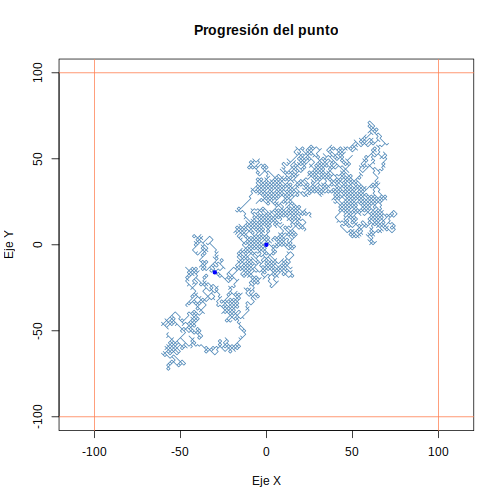
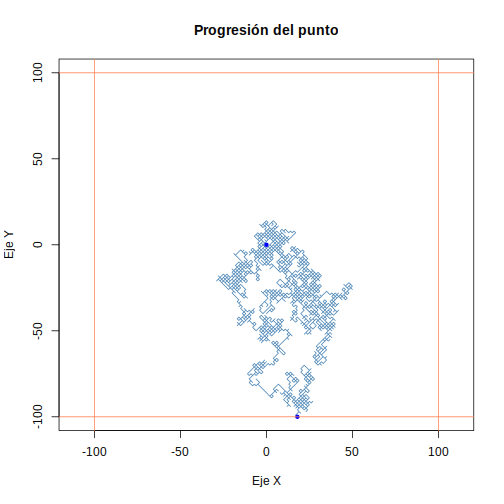
Añade media de tiempo, que es lo que se pedía en el ejercicio 4.

Changed region(s): [[0.3274, 0.2381, 0.8036, 0.8333]]

diff --git a/PlantillaHTML_Alejandro/index.html b/PlantillaHTML_Alejandro/index.html
@@ -216,14 +216,14 @@
                         
 <div class="chunk" id="unnamed-chunk-2"><div class="rcode"><div class="source"><pre class="knitr r"><span class="hl std">res</span> <span class="hl kwb">&lt;-</span> <span class="hl kwd">movimiento</span><span class="hl std">(</span><span class="hl num">10000</span><span class="hl std">,</span> <span class="hl kwc">mostrar</span> <span class="hl std">= T)</span>
 </pre></div>
-<div class="output"><pre class="knitr r">## No he terminado de moverme.
+<div class="output"><pre class="knitr r">## He llegado al límite.
 </pre></div>
 </div></div>
 
 
 
 
-                        <p>Además de con el mensaje impreso, podemos comprobar si hemos llegado o no al borde con el resultado devuelto: como <code>res$Exito = </code><code class="knitr inline">FALSE</code>, podemos confirmar que no se ha llegado al borde del cuadrado.</p>
+                        <p>Además de con el mensaje impreso, podemos comprobar si hemos llegado o no al borde con el resultado devuelto: como <code>res$Exito = </code><code class="knitr inline">TRUE</code>, podemos confirmar que sí se ha llegado al borde del cuadrado.</p>
                         <p>Para hacer un gráfico del proceso, simplemente tenemos que recuperar el camino con el elemento <code>Progresion</code> de la lista devuelta por el método y dibujar los puntos de ese vector. Podemos añadir, para la mejor visualización del gráfico, unas líneas que representen el borde del recinto y un par de puntos que representen el punto inicial y el punto final.
                       
 
@@ -255,7 +255,7 @@
                     <div class="solucion">
                         <p>Definimos la función solicitada, en la que usamos <code>replicate</code>, una función de <code>R</code> que permite repetir un proceso tantas veces como se le indique. Como lo que queremos es el número de pasos, lo que haremos será repetir <code>n</code> veces la llamada a <code>movimiento</code>, tomando el resultado que nos interesa: el elemento <code>Pasos</code> de la lista devuelta:</p>
 
-<div class="chunk" id="unnamed-chunk-5"><div class="rcode"><div class="source"><pre class="knitr r"><span class="hl std">repeticion</span> <span class="hl kwb">&lt;-</span> <span class="hl kwa">function</span><span class="hl std">(</span><span class="hl kwc">n</span> <span class="hl std">=</span> <span class="hl num">1000</span><span class="hl std">,</span> <span class="hl kwc">maxPasos</span> <span class="hl std">=</span> <span class="hl num">10000</span><span class="hl std">){</span>
+<div class="chunk" id="unnamed-chunk-5"><div class="rcode"><div class="source"><pre class="knitr r"><span class="hl std">repeticion</span> <span class="hl kwb">&lt;-</span> <span class="hl kwa">function</span><span class="hl std">(</span><span class="hl kwc">n</span> <span class="hl std">=</span> <span class="hl num">1000</span><span class="hl std">,</span> <span class="hl kwc">maxPasos</span> <span class="hl std">=</span> <span class="hl num">Inf</span><span class="hl std">){</span>
   <span class="hl kwd">return</span><span class="hl std">(</span><span class="hl kwd">replicate</span><span class="hl std">(n,</span> <span class="hl kwd">movimiento</span><span class="hl std">(maxPasos)</span><span class="hl opt">$</span><span class="hl std">Pasos))</span>
 <span class="hl std">}</span>
 </pre></div>
@@ -271,13 +271,25 @@
                         </p>
                     </div>
                     <div class="solucion">
-                        <p>Para tomar la media de pasos necesarios para salir del recinto en 100 repeticiones del proceso del movimiento, basta llamar a la función anteriormente definida y ejecutar <code>mean</code> sobre el vector devuelto:</p>
-<div class="chunk" id="unnamed-chunk-6"><div class="rcode"><div class="source"><pre class="knitr r"><span class="hl std">pasos</span> <span class="hl kwb">&lt;-</span> <span class="hl kwd">repeticion</span><span class="hl std">(</span><span class="hl num">100</span><span class="hl std">)</span>
-<span class="hl std">media</span> <span class="hl kwb">&lt;-</span> <span class="hl kwd">mean</span><span class="hl std">(pasos)</span>
+                        <p>Para tomar la media de pasos necesarios para salir del recinto en 100 repeticiones del proceso del movimiento basta llamar a la función anteriormente definida y ejecutar <code>mean</code> sobre el vector devuelto. Además,usaremos la función <code>Sys.time()</code> para medir el tiempo medio que el ordenador tarda en realizar el procedimiento.</p>
+<div class="chunk" id="unnamed-chunk-6"><div class="rcode"><div class="source"><pre class="knitr r"><span class="hl com"># Definimos el número de repeticiones</span>
+<span class="hl std">num.rep</span> <span class="hl kwb">&lt;-</span> <span class="hl num">100</span>
+
+<span class="hl com"># Tomamos nota del reloj en el instante actual</span>
+<span class="hl std">inicio</span> <span class="hl kwb">&lt;-</span> <span class="hl kwd">Sys.time</span><span class="hl std">()</span>
+
+<span class="hl com"># Hacemos las 100 repeticiones solicitadas</span>
+<span class="hl std">pasos</span> <span class="hl kwb">&lt;-</span> <span class="hl kwd">repeticion</span><span class="hl std">(num.rep)</span>
+
+<span class="hl com"># Tomamos nota del reloj en el instante actual</span>
+<span class="hl std">final</span> <span class="hl kwb">&lt;-</span> <span class="hl kwd">Sys.time</span><span class="hl std">()</span>
+
+<span class="hl std">pasos.media</span> <span class="hl kwb">&lt;-</span> <span class="hl kwd">mean</span><span class="hl std">(pasos)</span>
+<span class="hl std">tiempo.media</span> <span class="hl kwb">&lt;-</span> <span class="hl std">(final</span> <span class="hl opt">-</span> <span class="hl std">inicio)</span><span class="hl opt">/</span><span class="hl std">num.rep</span>
 </pre></div>
 </div></div>
 
-                        <p>Tenemos así que, de media, se necesitan unos 5009.26 pasos para salir del recinto.
+                        <p>Tenemos así que, de media, se necesitan unos 6109.88 pasos para salir del recinto. Además podemos obtener que el ordenador ha necesitado, de media, 0.5462421 segundos en calcular la trayectoria del punto hasta que sale del recinto.
                     </div>
                 </div>
             </div>
